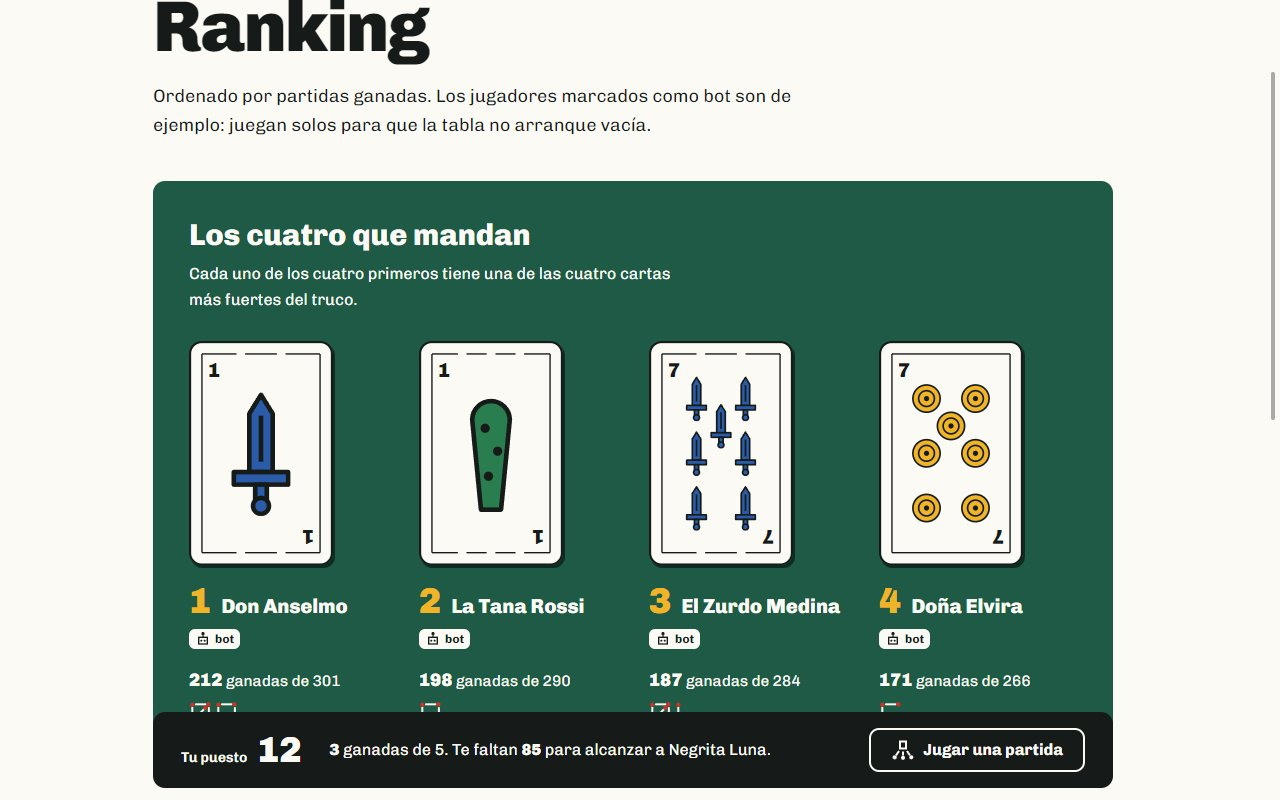
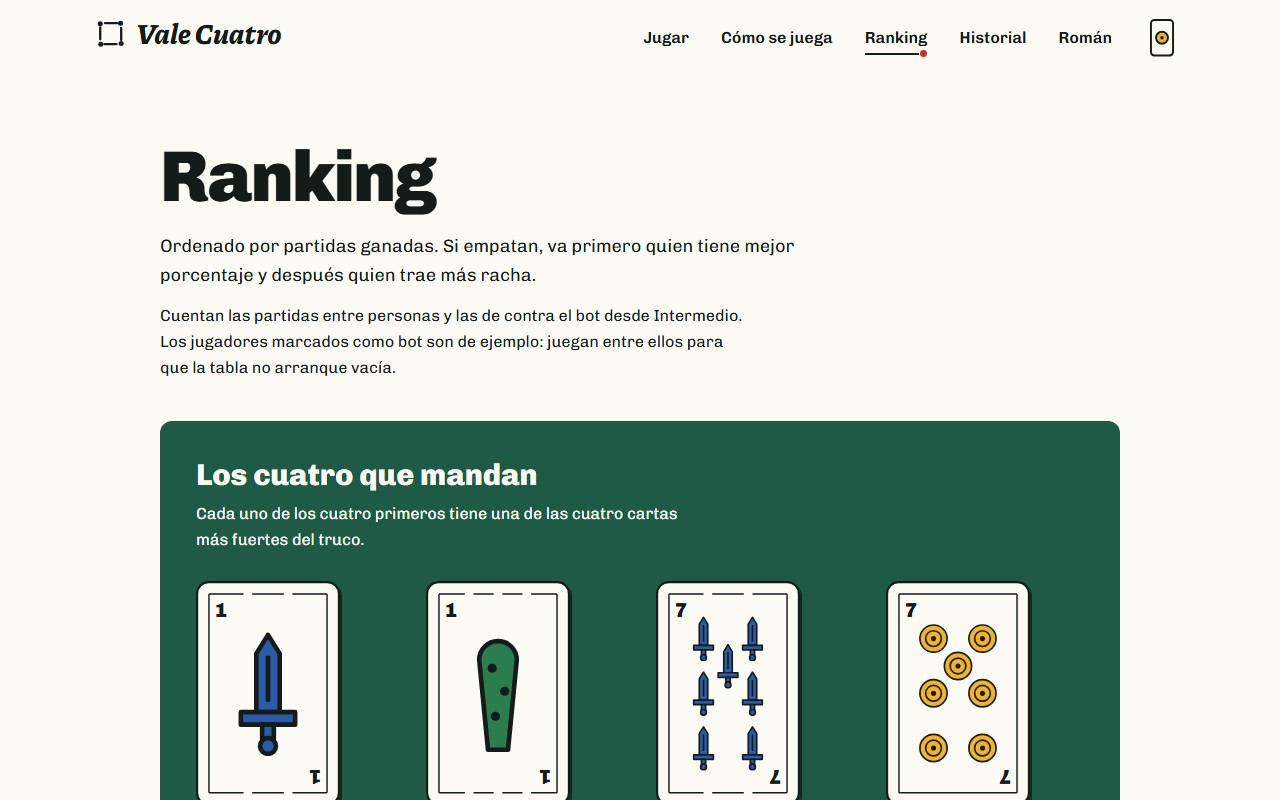
M8: decisiones del módulo, capturas del ranking y el README al día

diff --git a/docs/decisiones.md b/docs/decisiones.md
@@ -716,3 +716,55 @@ El historial dejó de ser una maqueta: la lista y la repetición salen de las pa
 - **No pasó por la revisión de código antes de subir:** Román pidió subirlo directo.
 - **No hay tests de navegador automáticos** del cartel ni de la repetición: se probaron a mano con un navegador real (abrir, cerrar por las cuatro puertas, atrás y adelante, recargar, teclado) y quedan para M11.
 - **Capturas** en `docs/capturas/`: `historial.png`, `historial-celular.png`, `repeticion.jpeg` y `repeticion-celular.png`.
+
+## M8. Ranking y estadísticas
+
+El ranking dejó de ser una maqueta: la tabla sale de las partidas que se jugaron. Con esto se borró el último archivo de datos de ejemplo escritos a mano.
+
+### Las estadísticas salen de los eventos, y se guarda un resumen por partida
+
+- **Problema:** el ranking necesita saber, de cada partida, quién la ganó y cómo le fue a cada uno en los envidos. Eso está en los eventos, pero sacarlo es volver a pasar la partida por el motor. Hacerlo con todas las partidas cada vez que alguien abre la tabla no escala.
+- **Elegido:** cuando una partida se cierra, `App\Juego\Estadisticas` la recorre con el motor (igual que la repetición) y guarda un renglón por persona en la tabla `resultados`: si ganó, cuántos envidos se quisieron y cuántos de esos ganó. La tabla del ranking se arma sumando esos renglones.
+- **No es una segunda verdad:** el renglón no agrega nada que no esté en los eventos. `php artisan ranking:recalcular` borra todos y los escribe de nuevo desde ahí, y un test rompe a propósito lo guardado y comprueba que recalcular lo deja igual que antes. Sirve también para las partidas jugadas antes de que existiera el ranking: después de migrar hay que correrlo una vez.
+- **Qué es un envido jugado:** el que se quiso y se compararon los tantos. El que no se quiso no cuenta. El ganador de la partida también se lee de los eventos (quién llegó a los puntos, o quién abandonó), no de la columna de la partida.
+- **Si anotar fallara, la partida se cierra igual.** El ranking se puede rehacer; una partida no puede quedar abierta por un error de la tabla. Hay un test.
+- **Se descartó** recorrer todas las partidas en cada visita, y guardar contadores por jugador (ganadas, racha) que se van sumando: un contador no se puede comprobar contra nada, y si un día se desacomoda no hay cómo saberlo.
+
+### Qué partidas cuentan y cómo se ordena
+
+- **Decidido por Román:** se ordena por partidas ganadas; si empatan, mejor porcentaje y después racha más larga. Si todo es igual, va antes quien llegó antes al sitio, para que el orden no cambie de una visita a otra.
+- **Contra el bot cuenta desde Intermedio.** Sin las partidas contra el bot el ranking quedaría vacío (un sitio de portfolio no tiene gente conectada), y dejar afuera al Fácil evita subir ganándole cien veces. Entre personas cuentan todas. Abandonar es perder.
+- **La racha** son las ganadas después de la última perdida, leídas por la fecha en que se cerró cada partida. Se calcula en la misma consulta que las sumas.
+- **Límite conocido:** la tabla trae un renglón por jugador y ordena en PHP, sin caché. Alcanza de sobra para este sitio; con miles de cuentas habría que paginar en la base.
+- **Límite conocido, a decidir con Román:** como abandonar es perder, dos sesiones de una misma persona pueden regalarse partidas (una abre la sala, la otra se sienta y abandona). Hoy esa victoria cuenta entera.
+
+### Los jugadores de ejemplo juegan de verdad
+
+- **Problema:** la tabla no puede arrancar vacía, y el proyecto dice que se simula el mundo, no la tecnología. Once jugadores con números escritos a mano serían justo lo contrario.
+- **Elegido por Román:** los jugadores de ejemplo son filas de `jugadores` marcadas (`de_ejemplo`), cada una con un nivel de bot. `php artisan ranking:ejemplo` los hace jugar todos contra todos, tres vueltas (30 partidas cada uno, 165 en total), con `App\Juego\Simulacion`: el mismo motor y los mismos bots que una partida real, cada bot mirando solo su asiento. Las partidas quedan guardadas como eventos y sus estadísticas se calculan igual que las de cualquier persona.
+- **Todo sale de una semilla:** la misma semilla da la misma partida, carta por carta (test). Por eso la tabla de ejemplo es siempre la misma, en cualquier máquina.
+- **El orden no está puesto a mano:** quedan arriba los que juegan con bots más fuertes porque ganan más. Un test comprueba que entre todos ganaron tantas partidas como se jugaron.
+- **No pasa por la mesa.** La mesa es para personas: lleva plazos, trabajos en cola y avisos en vivo. La simulación juega en memoria y guarda al final. Un test comprueba que los eventos guardados, aplicados por el camino de siempre, llegan al mismo resultado.
+- **Lo simulado va marcado también en la base:** las partidas simuladas llevan `simulada`, además de que sus dos jugadores son de ejemplo. Así lo que venga después (la API, la administración, las categorías) puede dejarlas afuera sin adivinar.
+- **Cuidados:** un jugador de ejemplo no tiene correo ni contraseña, así que nadie ingresa como él; ningún formulario puede crear uno; la limpieza diaria de invitados no se los lleva; si una persona ya usa uno de esos apodos, ese jugador de ejemplo no se crea. La siembra es todo o nada y no repite lo ya jugado: se puede correr en cada publicación.
+- **Se descartó** dejar números fijos, y hacerlos jugar por la mesa (habría dejado miles de trabajos en la cola y avisos a nadie).
+
+### Quién aparece y qué ve cada uno
+
+- **Decidido por Román:** en la tabla están las cuentas y los jugadores de ejemplo. Quien juega sin cuenta no aparece (la tabla se llenaría de "Invitado 48213"), pero en "Tu puesto" lee en qué lugar estaría, con el link para crear la cuenta. Como al registrarse conserva su fila, entra a la tabla con todo lo que ya jugó.
+- **La pantalla es la de la maqueta, conectada.** Se sumaron los casos que la maqueta no tenía: la tabla vacía, no tener partidas que cuenten, ir primero, estar entre los cuatro de arriba (lleva la marca "vos") y tener una partida sin terminar (el botón la retoma).
+
+### Lo que encontró la revisión de código de M8
+
+Diez observaciones. Se corrigió esto:
+
+- **La limpieza de invitados se podía llevar partidas ajenas.** Si un invitado abría una sala y se sentaba alguien con cuenta, al borrarse el invitado (30 días sin volver) se iba la partida entera, y con ella la victoria del otro. Ahora ese invitado no se borra. El mismo problema lo tiene borrar una cuenta, que se resuelve en M11.
+- **Una siembra cortada por la mitad quedaba como si estuviera completa.** Ahora es una sola transacción.
+- **La racha se leía por el orden en que se escribieron los renglones,** y volver a anotar una partida vieja la cambiaba. Se lee por la fecha de cierre.
+- **Un error al anotar deshacía el cierre de la partida.** Ahora se anota el error y la partida se cierra.
+- **Para no contar dos veces un envido se salteaban dos tipos de evento por nombre.** Ahora se mira si el motor avanzó: vale para cualquier evento nuevo que no pase por el motor.
+- **Las partidas simuladas no se distinguían en la base** de una entre dos personas. Llevan su marca.
+
+Quedó anotado como límite: lo de las partidas regaladas entre dos sesiones y que la tabla no tiene caché. Y como paso de publicación (M11): después de migrar, `ranking:ejemplo` y `ranking:recalcular`.
+
+- **Capturas** en `docs/capturas/`: `ranking.jpeg`, `ranking-celular.jpeg`, `ranking-tu-puesto.png` y `ranking-tu-puesto-celular.png`.
